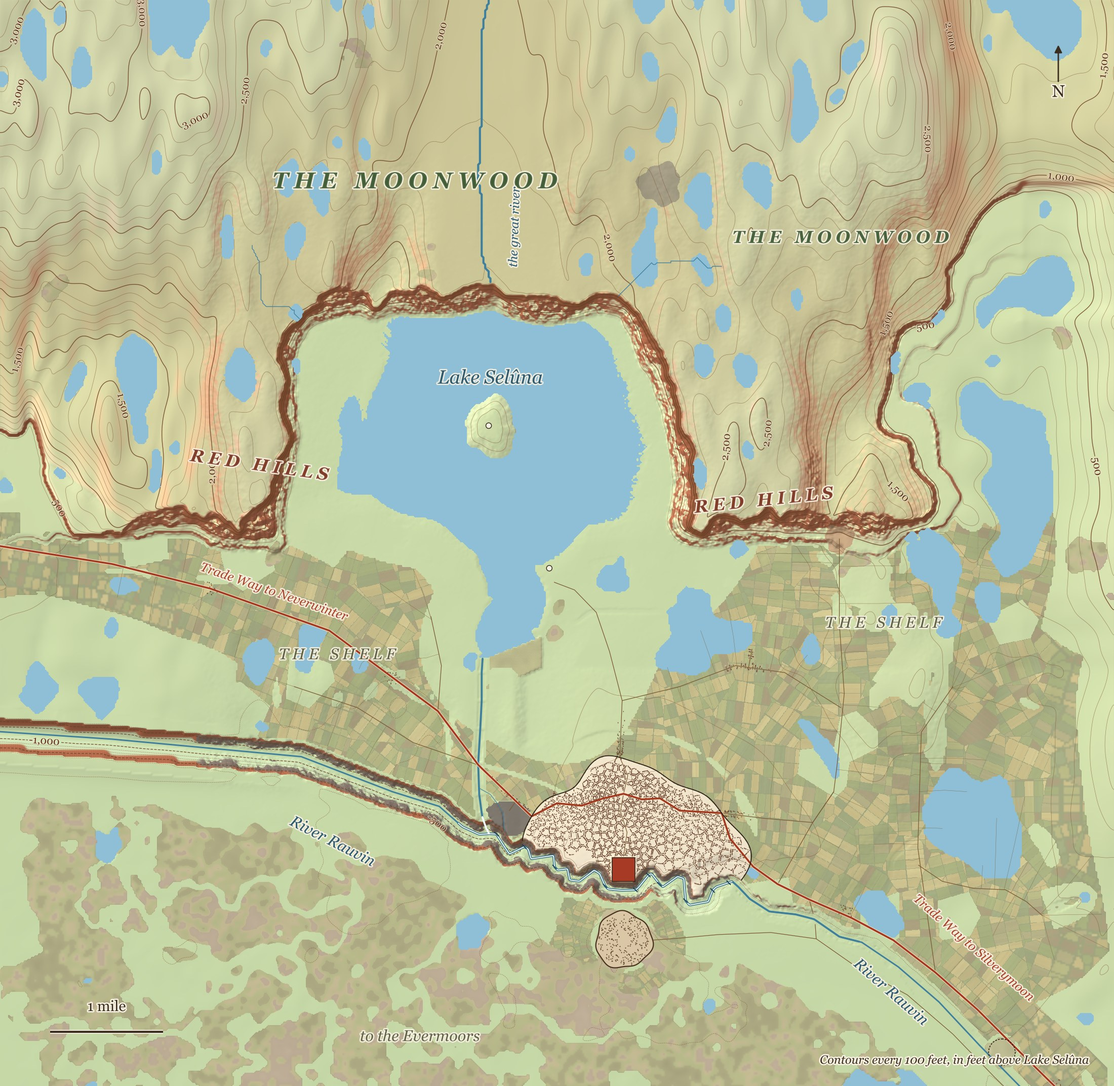
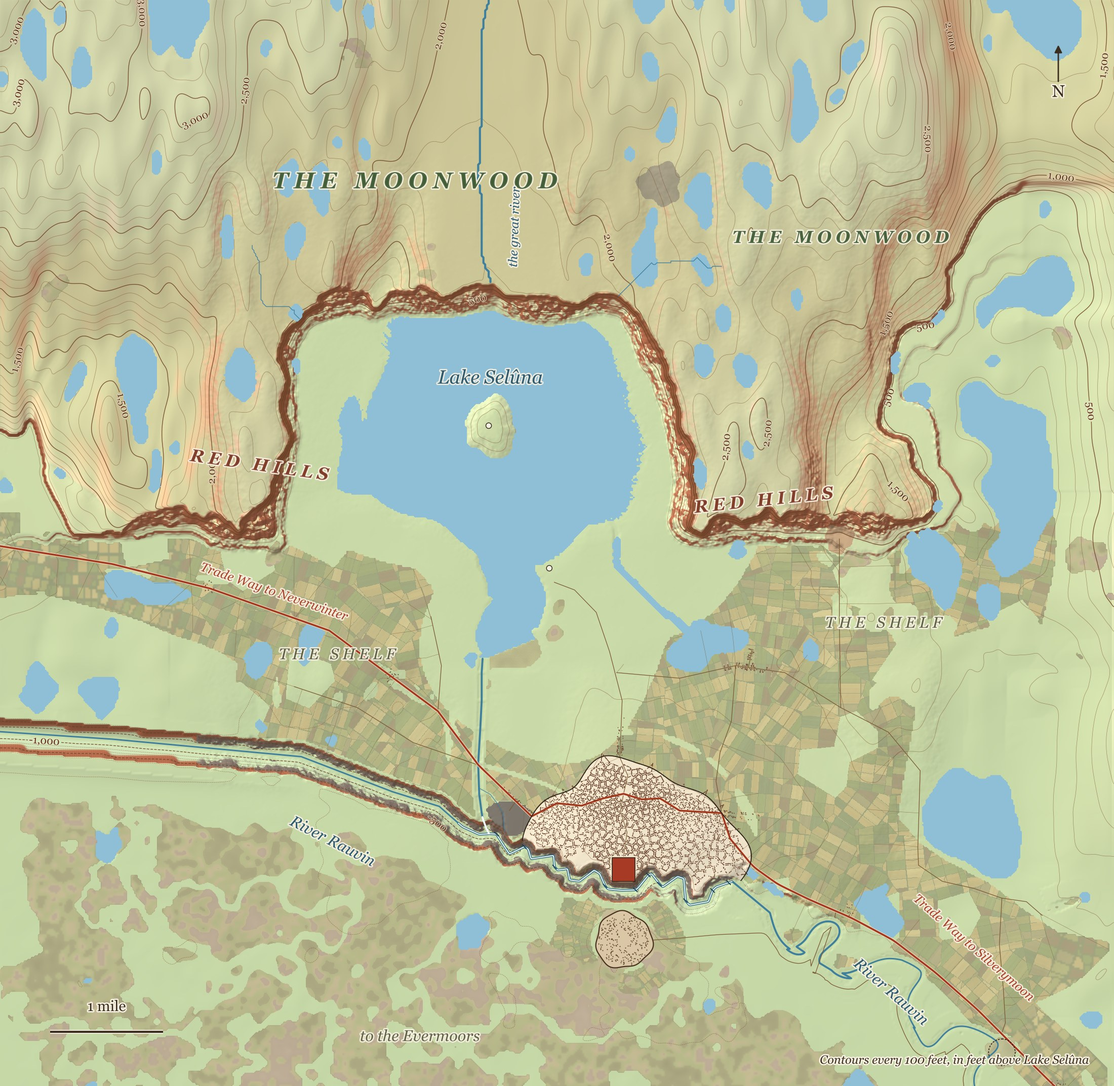
The shelf's roads as laid out, its eastern woods, and a road map
A collaborator's layout: the lake road north to the Fane, the road east from it through Kossenberg and on as the shelf road past
the dojo, round its lake and down to Old Kossenberg on the river, and a road up to Kossenberg from the city's east gate.  The
eastern shelf round the dojo and the Old Stone grove is woodland, and Snorbul's Hole is by the lake road where Kossenberg's road
leaves it.

The topographic maps are redrawn on the settled shelf, with the city on its broad hill and the Rauvin meandering below the
Doorstep.  Beside them, a road map of the same country in the same frame, so the same link pins go over it: the roads ranked
and cased, tracks and paths dashed, the land's cover in plain colours.

Claude-Session: https://claude.ai/code/session_01CacC3kcDPTqHS8f3YVmo4r

diff --git a/src/content/wiki/thunder-bluff.md b/src/content/wiki/thunder-bluff.md
@@ -104,7 +104,9 @@ The lake's river leaves by its old course and runs down the west side of the cit
 </figure>
 </div>
 
-Kossenberg is older than any of it: the farming village was working the shelf before the barony was a barony. It stands on the road along the shelf north-east of the city, toward the cliffs' foot, its crofts running back into the fields. East of the farms, in the woods on the scarp, is [[tarks-dojo|Tark's dojo]], and south-east of it, under the eastern hills and further out from the city than anything else on the shelf, is Doc's druid grove: [[old-stone-grove|the Old Stone grove]], a sunken dale with the standing stone in its clearing. In the woods north of Kossenberg, on the way to the Fane, a hole in the ground among heaps of gravel is all anyone sees of [[snorbuls-hole|Snorbul's Hole]].
+Kossenberg is older than any of it: the farming village was working the shelf before the barony was a barony. It stands on the road along the shelf north-east of the city, toward the cliffs' foot, its crofts running back into the fields, and a road comes up to it from the city's east gate. The road through it goes on east and south as the shelf road, into the woods that cover the eastern shelf. There, on the scarp, is [[tarks-dojo|Tark's dojo]]; the road runs round the lake below it and on south to the river at Old Kossenberg, and off it, under the eastern hills and further out from the city than anything else on the shelf, is Doc's druid grove: [[old-stone-grove|the Old Stone grove]], a sunken dale with the standing stone in its clearing. Back west, where Kossenberg's road meets the lake road north of the city, a faint track into the woods ends at a hole in the ground among heaps of gravel: all anyone sees of [[snorbuls-hole|Snorbul's Hole]].
+
+<div data-map-slot="roads"></div>
 
 <div class="plates">
 <figure>

diff --git a/src/content/wiki/kossenberg.md b/src/content/wiki/kossenberg.md
@@ -22,4 +22,4 @@ Down on the north bank of the Rauvin, east of the city where the river still run
 
 ## Surrounding Landmarks
 
-The Red Hill stands at the foot of the eastern cliffs beyond the village, with its iron workings and the Glittering Caves beneath. Oldstone — a sacred menhir older than local memory — stands in [[old-stone-grove|the Old Stone grove]], Doc's druid grove, in a sunken dale south-east of [[tarks-dojo|Tark's dojo]], the furthest place out from the city on the shelf; the village processes there at Spring Planting. In the woods north of the village, on the way to the Fane, a hole in the ground among heaps of gravel is the way down into [[snorbuls-hole|Snorbul's Hole]]. Down the road lies [[selunia|New Daggerford]], with [[high-hold|High-Hold]] on the next prow of the bluff, and Lake Selûna lies to the west.
+The Red Hill stands at the foot of the eastern cliffs beyond the village, with its iron workings and the Glittering Caves beneath. Oldstone — a sacred menhir older than local memory — stands in [[old-stone-grove|the Old Stone grove]], Doc's druid grove, in a sunken dale south-east of [[tarks-dojo|Tark's dojo]], the furthest place out from the city on the shelf; the village processes there at Spring Planting. West of the village, where its road meets the lake road north of the city, a faint track leads into the woods to a hole in the ground among heaps of gravel: the way down into [[snorbuls-hole|Snorbul's Hole]]. The road on east from the village runs past the dojo and the woods round it, and south to the river at Old Kossenberg. Down the road lies [[selunia|New Daggerford]], with [[high-hold|High-Hold]] on the next prow of the bluff, and Lake Selûna lies to the west.

diff --git a/src/content/wiki/old-stone-grove.md b/src/content/wiki/old-stone-grove.md
@@ -8,7 +8,7 @@ image: "/images/barony/grove.jpg"
 imageAlt: "A massive standing stone in a meadow clearing by a brook, in a deep wooded dale that ends in a sheer red rock wall with scree at its foot"
 ---
 
-The Old Stone Grove is [[doc|Doc]]'s druid grove, in the Barony of [[thunder-bluff|Thunder Bluff]]. It lies south-east of [[tarks-dojo|Tark's dojo]], further out from the city than anything on the shelf, down in a glade under the eastern hills: a basin, a forested dale nestled among rolling hills. A track leaves the farm road below the dojo and runs round the south shore of the lake there and up into the dale's mouth. At its centre is a clearing with flowing water, and at the centre of that stands Oldstone, a massive standing stone older than local memory.
+The Old Stone Grove is [[doc|Doc]]'s druid grove, in the Barony of [[thunder-bluff|Thunder Bluff]]. It lies south-east of [[tarks-dojo|Tark's dojo]], further out from the city than anything on the shelf, down in a glade under the eastern hills: a basin, a forested dale nestled among rolling hills. It lies deep in the woods that cover the eastern shelf. The shelf road runs on from the dojo round the lake below it, and a track leaves it south of the lake and climbs east into the dale's mouth. At its centre is a clearing with flowing water, and at the centre of that stands Oldstone, a massive standing stone older than local memory.
 
 ## The Dale
 

diff --git a/src/content/wiki/tarks-dojo.md b/src/content/wiki/tarks-dojo.md
@@ -8,7 +8,7 @@ image: "/images/barony/dojo.jpg"
 imageAlt: "The dojo's roofed gate at the head of a stone stair, its walls and the hall's great roof rising behind among pines"
 ---
 
-The Dojo is [[tarkathee-daru|Tark]]'s training hall in the Barony of [[thunder-bluff|Thunder Bluff]]. It stands set back in the treeline, in the woods on the scarp east of the farms that run up from [[selunia|New Daggerford]], and a footpath climbs to it off the farm road along the shelf. South-east of it, round the lake below and up under the eastern hills, is Doc's druid grove, [[old-stone-grove|the Old Stone grove]].
+The Dojo is [[tarkathee-daru|Tark]]'s training hall in the Barony of [[thunder-bluff|Thunder Bluff]]. It stands set back in the treeline, in the woods on the scarp east of the farms that run up from [[selunia|New Daggerford]], and a footpath climbs to it off the shelf road, which runs from [[kossenberg|Kossenberg]] past the dojo and on south to the river. South-east of it, round the lake below and up under the eastern hills, is Doc's druid grove, [[old-stone-grove|the Old Stone grove]].
 
 ## The Grounds
 

diff --git a/src/content/wiki/snorbuls-hole.md b/src/content/wiki/snorbuls-hole.md
@@ -8,7 +8,7 @@ image: "/images/barony/snorbul.jpg"
 imageAlt: "A dark hole in the ground in a woodland clearing, ringed by heaps of dug earth and loose stones"
 ---
 
-Snorbul's Hole is a labyrinthine complex of underground tunnels and chambers located within the Barony of [[thunder-bluff|Thunder Bluff]]. It is owned, operated, and championed by Snorbul himself. The way in is in the woods north of [[kossenberg|Kossenberg]], off any road, on the way to the [[fane-of-selune|Fane of Selûne]].
+Snorbul's Hole is a labyrinthine complex of underground tunnels and chambers located within the Barony of [[thunder-bluff|Thunder Bluff]]. It is owned, operated, and championed by Snorbul himself. The way in is in the woods by the lake road north of [[selunia|New Daggerford]], on the way to the [[fane-of-selune|Fane of Selûne]], where the road east to [[kossenberg|Kossenberg]] leaves it: a faint track, easy to walk past.
 
 ## Surface
 
